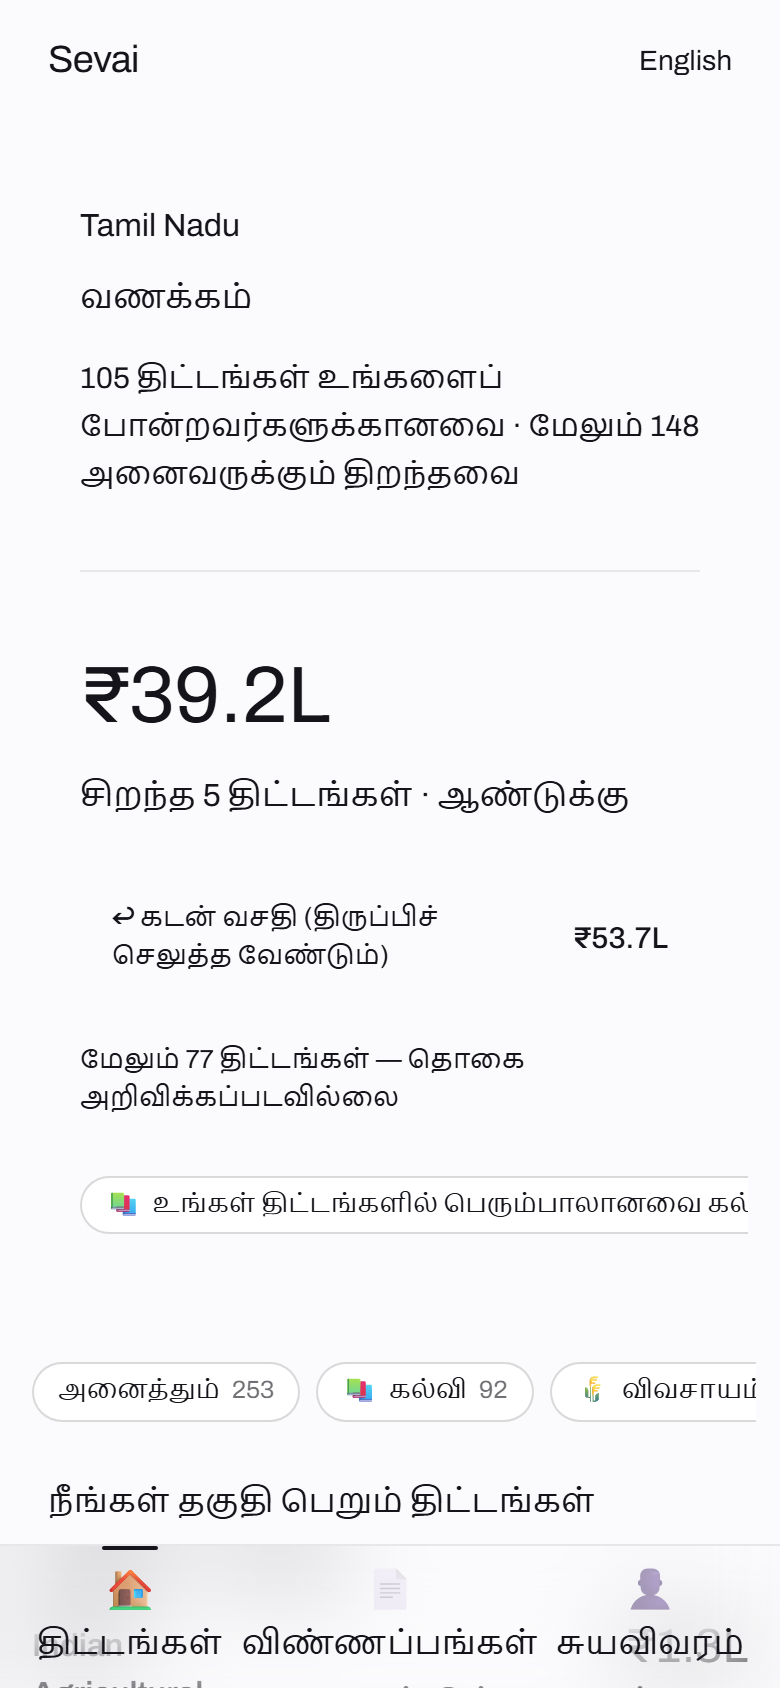
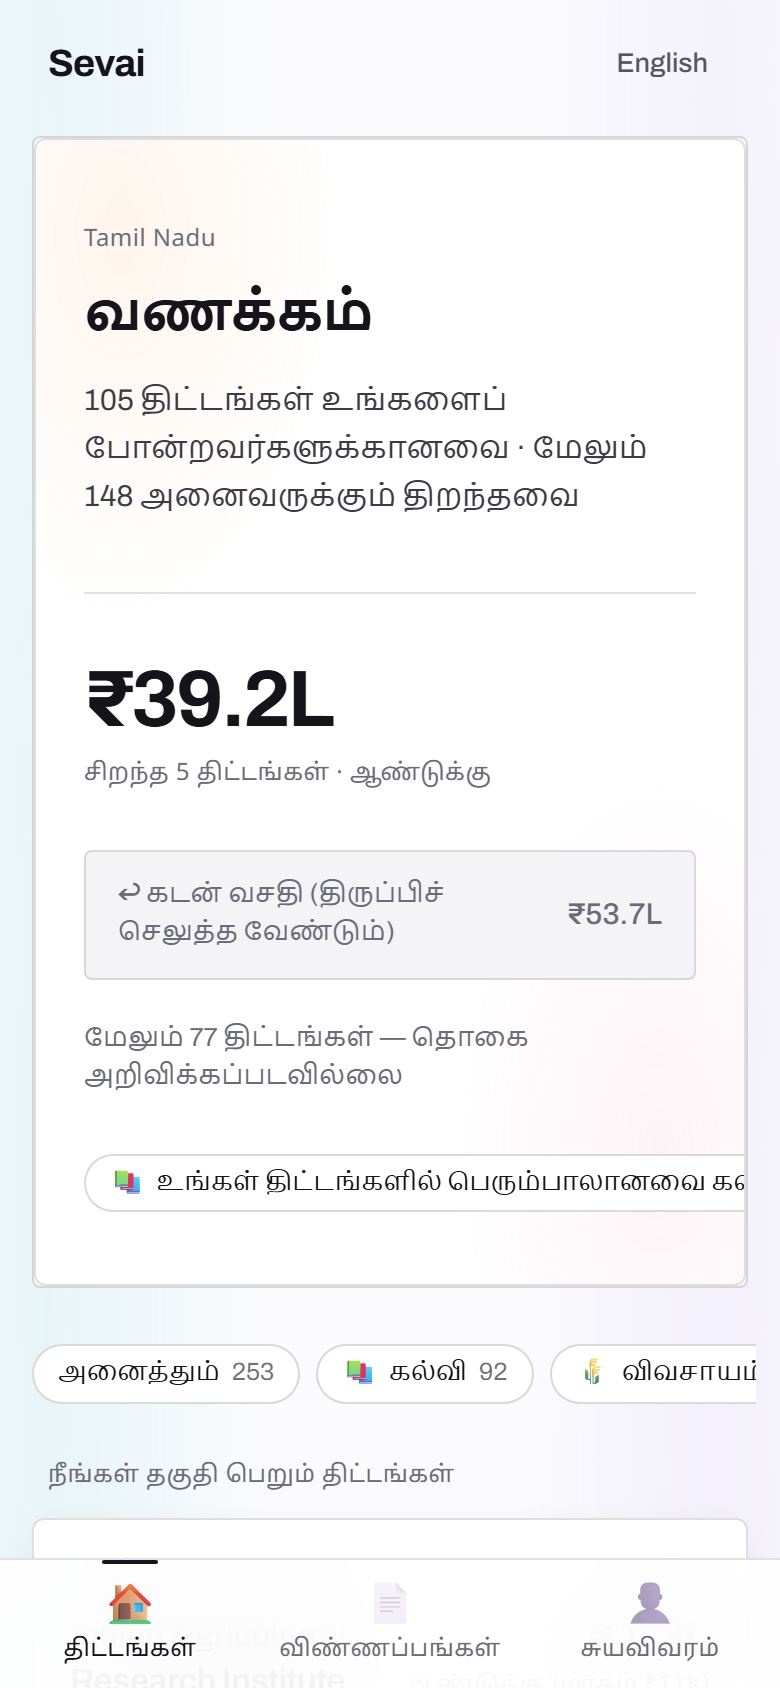
Define the missing design tokens; fix the seeded application
The components are written against the token vocabulary in DESIGN.md
(canvas / surface / muted / hairline / ink-2 / u-* / btn-primary) while
index.css shipped the later Sevai.dc.html naming (page / white / ink ramp
/ rule-*). The two were never reconciled. Tailwind emits nothing for an
unknown utility and warns nothing, so roughly twenty classes used across
almost every component resolved to no CSS at all, silently.

Landing and the result screen barely touch the missing names, which is
why the app looked fine and this went unnoticed. SahayakMode uses fifteen
of them — its bg-canvas overlay computed to rgba(0,0,0,0) and rendered
transparently over the page behind it.

Defines the missing names against the SHIPPED values rather than pulling
in DESIGN.md's palette, so there is one visual language, not two:

- colours: canvas, surface + surface.sub, muted, hairline, ink.2
- sizes:   q, q-md, scheme, lead, body
- radii:   well, surface        shadows: e1, e2
- motion:  duration-240/320, ease-composed, animate-wave, pulse-slow
- classes: u-meta, u-display, u-scheme-name, btn-primary/secondary/ghost
           (+ .compact), surface-plate, surface-tray, card, well,
           amber-banner, bloom-neutral/warm/cool/quiet

Also fixes the seeded demo application, which referenced pmay-gramin; the
v2 corpus keys that scheme pmay-g, so it rendered as "Scheme details
unavailable" on the one screen built to show the status timeline.
[…]

diff --git a/client/src/index.css b/client/src/index.css
@@ -183,6 +183,80 @@ input, select, textarea { font: inherit; color: inherit; }
 
   /* Emphasised word in body copy — a highlighter rule, not a colour change. */
   .mark { font-style: normal; box-shadow: inset 0 -.5em 0 var(--violet-mark); }
+
+  /* ── Compatibility layer ──────────────────────────────────────────────────
+     The components call these names; this file shipped the ones above. They
+     were never reconciled, and an undefined utility costs nothing and warns
+     nothing, so these all resolved to no CSS — most visibly on SahayakMode,
+     whose full-screen overlay was left transparent.
+
+     Each one is expressed in terms of the shipped system rather than given
+     fresh values, so there is exactly one visual language here, not two.    */
+
+  /* Type roles */
+  .u-meta {
+    font-family: 'IBM Plex Mono', ui-monospace, monospace;
+    text-transform: uppercase;
+    letter-spacing: .12em;
+    font-size: 12px;
+    line-height: 1.45;
+    color: var(--ink-45);
+  }
+  [lang='ta'] .u-meta, .u-meta[lang='ta'] {
+    text-transform: none;
+    letter-spacing: .02em;
+    font-family: 'Noto Sans Tamil', sans-serif;
+  }
+  /* Size always arrives alongside it (`u-display text-[26px]`), so this
+     supplies weight and tracking only — never a font-size. */
+  .u-display { font-weight: 700; letter-spacing: -.035em; line-height: 1.06; text-wrap: balance; }
+  .u-scheme-name {
+    font-size: 17px; line-height: 1.35; font-weight: 600; letter-spacing: -.015em;
+    text-wrap: balance; overflow-wrap: break-word; hyphens: none;
+  }
+
+  /* Surfaces */
+  .surface-plate { background: var(--white); border: 1px solid var(--rule-14); border-radius: 6px; }
+  .surface-tray  { background: var(--panel); border: 1px solid var(--rule-16); border-radius: 4px; }
+  .card          { background: var(--white); border: 1px solid var(--rule-14); border-radius: 6px; padding: 18px; }
+  .well          { background: var(--shell); border: 1px solid var(--rule-12); border-radius: 4px; }
+
+  /* Controls. btn-primary and btn-secondary are the shipped .btn and
+     .btn-quiet; btn-ghost is the third rung those two implied but never had. */
+  .btn-primary {
+    background: var(--ink); color: #fff; border-radius: 999px;
+    padding: 19px 36px; font-size: 17px; font-weight: 600; letter-spacing: -.01em;
+    box-shadow: 0 14px 30px -12px rgba(20, 20, 26, .55);
+    transition: transform .18s ease, box-shadow .18s ease;
+  }
+  .btn-primary:hover { transform: translateY(-2px); box-shadow: 0 20px 38px -12px rgba(20, 20, 26, .6); }
+
+  .btn-secondary {
+    border: 1px solid var(--rule-22); border-radius: 999px;
+    padding: 8px 18px; font-size: 14.5px; font-weight: 500;
+    background: rgba(255, 255, 255, .55);
+    transition: background .18s ease, color .18s ease, border-color .18s ease;
+  }
+  .btn-secondary:hover { background: var(--ink); color: #fff; border-color: var(--ink); }
+
+  .btn-ghost {
+    padding: 10px 16px; border-radius: 999px;
+    font-size: 15px; font-weight: 500; color: var(--ink-60);
+    transition: background .18s ease, color .18s ease;
+  }
+  .btn-ghost:hover { background: var(--rule-10); color: var(--ink); }
+
+  .btn-primary.compact { padding: 12px 22px; font-size: 15px; box-shadow: none; }
+  .btn-secondary.compact,
+  .btn-ghost.compact   { padding: 6px 12px; font-size: 13.5px; }
+
+  /* A caution strip. Borrows the sahayak amber so warnings and delegated
+     access read as the same register of "pay attention", not two systems. */
+  .amber-banner {
+    background: var(--sah-bg); border: 1px solid var(--sah-rule);
+    color: var(--sah-ink); border-radius: 4px;
+    padding: 10px 12px; font-size: 13.5px; line-height: 1.45;
+  }
 }
 
 @layer utilities {
@@ -210,6 +284,28 @@ input, select, textarea { font: inherit; color: inherit; }
       radial-gradient(46% 100% at 10% 0%, rgba(var(--bloom-peach), .34) 0%, rgba(var(--bloom-peach), .12) 46%, rgba(var(--bloom-peach), 0) 78%),
       radial-gradient(40% 90% at 88% 0%,  rgba(var(--bloom-lav), .30) 0%, rgba(var(--bloom-lav), 0) 74%);
   }
+  /* Bloom variants the components ask for. `bloom-quiet` is a modifier that
+     rides on top of a stop set, not a stop set of its own. */
+  .bloom-neutral {
+    inset: 0;
+    background:
+      radial-gradient(32% 36% at 8% 6%,   rgba(var(--bloom-lav), .26) 0%, rgba(var(--bloom-lav), .10) 46%, rgba(var(--bloom-lav), 0) 76%),
+      radial-gradient(34% 40% at 94% 90%, rgba(var(--bloom-teal), .22) 0%, rgba(var(--bloom-teal), 0) 74%);
+  }
+  .bloom-warm {
+    inset: 0;
+    background:
+      radial-gradient(40% 44% at 12% 8%,  rgba(var(--bloom-peach), .34) 0%, rgba(var(--bloom-peach), .12) 48%, rgba(var(--bloom-peach), 0) 78%),
+      radial-gradient(38% 42% at 88% 88%, rgba(var(--bloom-pink), .28) 0%, rgba(var(--bloom-pink), 0) 76%);
+  }
+  .bloom-cool {
+    inset: 0;
+    background:
+      radial-gradient(38% 42% at 6% 4%,   rgba(var(--bloom-teal), .30) 0%, rgba(var(--bloom-teal), .11) 46%, rgba(var(--bloom-teal), 0) 76%),
+      radial-gradient(36% 44% at 92% 10%, rgba(var(--bloom-lav), .28) 0%, rgba(var(--bloom-lav), 0) 74%);
+  }
+  .bloom-quiet { opacity: .55; }
+
   .tabular { font-variant-numeric: tabular-nums; }
 
   /* Entrance that cannot hide content: opacity stays 1, only the translate

diff --git a/client/tailwind.config.js b/client/tailwind.config.js
@@ -16,8 +16,27 @@ export default {
       colors: {
         page: '#FBFBFD',
         shell: '#F4F4F7',
+
+        // ── Compatibility layer ────────────────────────────────────────────
+        // The components are written against the token names in DESIGN.md
+        // (canvas / surface / muted / hairline / ink-2); index.css shipped the
+        // later Sevai.dc.html vocabulary (page / white / ink ramp / rule).
+        // Neither name set was wrong — they were simply never reconciled, and
+        // Tailwind emits nothing for an unknown utility without warning, so
+        // every one of these silently resolved to no CSS at all.
+        //
+        // These map the DESIGN.md names onto the SHIPPED values rather than
+        // reintroducing DESIGN.md's palette. Landing and the result screen
+        // already look correct against the shipped ramp; pulling in a second
+        // set of near-miss greys would make one app look like two.
+        canvas: '#FBFBFD',                     // = --page
+        surface: { DEFAULT: '#FFFFFF', sub: '#F4F4F7' },
+        muted: '#6C6C78',                      // = --ink-45
+        hairline: 'rgba(20,20,26,0.12)',       // = --rule-12
+
         ink: {
           DEFAULT: '#14141A',
+          2: '#3B3B46',                        // body ink; = --ink-80
           90: '#25252E',
           80: '#3B3B46',
           70: '#44444F',
@@ -52,12 +71,25 @@ export default {
         mono: ['"IBM Plex Mono"', 'ui-monospace', 'monospace'],
         ta: ['"Noto Sans Tamil"', 'Archivo', 'sans-serif'],
       },
-      borderRadius: { panel: '6px', flat: '4px', shell: '8px' },
+      // Sizes the components ask for by name. Values come off the shipped scale
+      // in index.css: `scheme` mirrors .scheme-name, `q-md` mirrors .h-2.
+      fontSize: {
+        q: ['26px', { lineHeight: '1.14', letterSpacing: '-0.03em' }],
+        'q-md': ['34px', { lineHeight: '1.08', letterSpacing: '-0.035em' }],
+        scheme: ['17px', { lineHeight: '1.35', letterSpacing: '-0.015em' }],
+        lead: ['19px', { lineHeight: '1.3', letterSpacing: '-0.02em' }],
+        body: ['16px', { lineHeight: '1.55' }],
+      },
+      borderRadius: { panel: '6px', flat: '4px', shell: '8px', well: '4px', surface: '6px' },
       boxShadow: {
         lift: '0 14px 30px -12px rgba(20,20,26,.55)',
         liftHover: '0 20px 38px -12px rgba(20,20,26,.6)',
         shell: '0 40px 90px -30px rgba(20,20,26,.28)',
+        e1: '0 4px 12px -6px rgba(20,20,26,.22)',
+        e2: '0 10px 26px -12px rgba(20,20,26,.30)',
       },
+      transitionDuration: { 240: '240ms', 320: '320ms' },
+      transitionTimingFunction: { composed: 'cubic-bezier(.22,1,.36,1)' },
       keyframes: {
         svDrift: {
           '0%,100%': { transform: 'translate3d(0,0,0) scale(1)' },
@@ -65,11 +97,17 @@ export default {
         },
         svSpin: { to: { transform: 'rotate(360deg)' } },
         svPulse: { '0%,100%': { opacity: '.55' }, '50%': { opacity: '1' } },
+        // The speaking indicator on SamjhaoButton and the listening dot on
+        // DocumentScanner. Both were referenced by name and never defined.
+        svWave: { '0%,100%': { transform: 'scaleY(.35)' }, '50%': { transform: 'scaleY(1)' } },
+        svPulseSlow: { '0%,100%': { opacity: '.35' }, '50%': { opacity: '1' } },
       },
       animation: {
         svDrift: 'svDrift 22s ease-in-out infinite',
         svSpin: 'svSpin 1.1s linear infinite',
         svPulse: 'svPulse 2.4s ease-in-out infinite',
+        wave: 'svWave .9s ease-in-out infinite',
+        'pulse-slow': 'svPulseSlow 2.8s ease-in-out infinite',
       },
     },
   },

diff --git a/client/src/pages/Applications.jsx b/client/src/pages/Applications.jsx
@@ -24,7 +24,10 @@ const seedIfEmpty = () => {
   if (existing.length === 0) {
     saveApplications([
       {
-        scheme_id: 'pmay-gramin',
+        // 'pmay-gramin' in v1. The v2 corpus keys this scheme 'pmay-g', so the
+        // old id resolved to nothing and the seeded row rendered as "Scheme
+        // details unavailable" — on the one screen built to show the timeline.
+        scheme_id: 'pmay-g',
         submitted_at: Date.now() - 5 * 24 * 60 * 60 * 1000,
         status: 'rejected',
         reject_reason: null, // uses default Tamil/English copy

diff --git a/README.md b/README.md
@@ -214,15 +214,24 @@ schemes they could claim and sorted what came back.
 The same screen in English. Interface copy, headings and navigation switch in place.
 Scheme titles come from the corpus and remain English — see [Limitations](#limitations).
 
-### Sahayak Mode and application tracking
+### Sahayak Mode — delegated access
 
-Not captured. Both screens render against design tokens that are referenced throughout
-the components but never defined in `tailwind.config.js` or `index.css` — `bg-canvas`,
-`surface-plate`, `btn-primary`, `u-meta` and roughly fifteen others. The markup and
-logic are correct; the styling silently resolves to nothing, which is most visible on
-`SahayakMode`, whose full-screen overlay renders transparently over the page behind it.
-Captures are held back until that is fixed rather than shipped misleading. See
-[Known defects](#known-defects).
+![Sahayak session](docs/screenshots/sahayak-session.png)
+
+A helper enters the citizen's PIN, then loads exactly one beneficiary by code. The
+session lasts an hour and expires on its own; every action taken inside it is written
+to an audit log the citizen can review. The PIN and the codes are printed on screen
+because this is a hackathon build — production would issue them cryptographically.
+
+### Application tracking
+
+![Applications](docs/screenshots/applications.png)
+
+A rejected application, with the reason named and the remediation path shown rather
+than a dead end. Two details carry the argument: the benefit is split into a one-time
+payment and a separately-framed credit line — *"credit available — to be repaid"* —
+and the panel below shows the SMS a citizen would receive, which is the channel the
+whole design is aimed at.
 
 ## Architecture
 
@@ -334,31 +343,32 @@ This is a hackathon MVP and the boundary should be explicit.
 Multi-channel reach is central to the concept and the first thing a real deployment
 would need. It is specified here, not shipped.
 
-## Known defects
+## Two defects found and fixed while recapturing
 
-Found while recapturing screenshots against the running build. Both are open.
+Both were invisible in code review and only showed up by driving the running app.
 
-**The design tokens the components are written against are not defined.** Roughly
-nineteen classes — `bg-canvas`, `bg-surface`, `bg-surface-sub`, `text-muted`,
-`text-lead`, `text-q`, `text-scheme`, `u-meta`, `u-display`, `u-scheme-name`,
-`btn-primary`, `btn-secondary`, `btn-ghost`, `surface-tray`, `surface-plate`,
-`border-hairline`, `ring-hairline`, `amber-banner`, `rounded-well` — are used across
-almost every component but exist in neither `tailwind.config.js` nor `index.css`.
-Tailwind emits nothing for an unknown utility and reports no error, so the pages that
-lean hardest on them degrade silently. `Landing` and the result screen are unaffected
-and render as designed; `SahayakMode`, `Applications`, `Profile` and `SchemeDetail`
-are visibly degraded. The sharpest symptom is that `bg-canvas` — the background on
-three full-screen overlays, including Sahayak Mode — computes to `rgba(0,0,0,0)`, so
-those overlays are transparent and the page behind shows through. `BottomNav` is
-transparent for the same reason, which is why feed content runs under the navigation
-bar. The colour exists in the config under a different name (`page`), so the smallest
-correct fix is to define the missing tokens rather than to rename usages.
+**The components were written against design tokens that were never defined.**
+`bg-canvas`, `bg-surface`, `text-muted`, `text-q`, `u-meta`, `u-display`,
+`btn-primary`, `surface-plate`, `border-hairline`, `rounded-well` and roughly a dozen
+more appear throughout the components but existed in neither `tailwind.config.js` nor
+`index.css`. The two files had drifted apart: the components use the vocabulary in
+`DESIGN.md`, while `index.css` shipped the later `Sevai.dc.html` naming (`page`,
+`white`, the ink ramp, `rule-*`). Tailwind emits nothing for an unknown utility and
+reports no error, so this failed in total silence.
 
-**The seeded demo application points at a scheme that no longer exists.** The
-Applications screen ships one pre-seeded record referencing `pmay-gramin`, an ID from
-the v1 Tamil Nadu corpus. The v2 all-India corpus is keyed differently, so the record
-resolves to "Scheme details unavailable" and the status timeline renders against a
-missing scheme.
+`Landing` and the result screen barely use the missing names and always looked
+correct, which is what kept it hidden. `SahayakMode` uses fifteen of them: its
+`bg-canvas` full-screen overlay computed to `rgba(0,0,0,0)`, so it rendered
+transparently over the page behind it — on the feature this README calls the one the
+design turns on. The fix defines the missing names against the **shipped** values
+rather than reintroducing `DESIGN.md`'s palette, so the app keeps one visual language
+instead of two near-miss greys.
+
+**The seeded demo application pointed at a scheme ID that no longer exists.** The
+Applications screen seeds one rejected record so the timeline and the resubmit path
+can be shown. It referenced `pmay-gramin`; the v2 corpus keys that scheme `pmay-g`, so
+it resolved to "Scheme details unavailable" on the one screen built to demonstrate the
+timeline.
 
 ## Limitations
 
